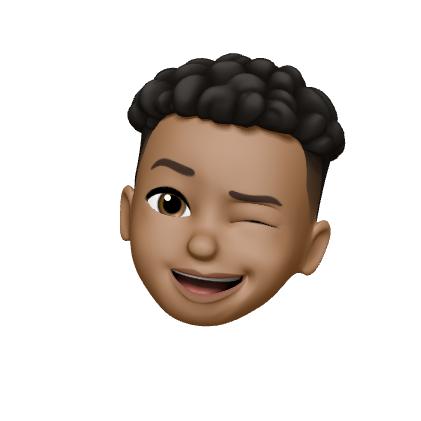
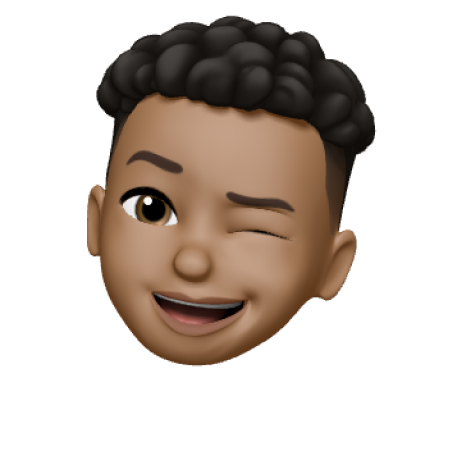
improved Worflow slides & memoji

Changed region(s): [[0.1853, 0.0309, 0.8337, 0.8029]]

diff --git a/src/components/Props/WorkFlowItems.jsx b/src/components/Props/WorkFlowItems.jsx
@@ -21,34 +21,34 @@ const WorkFlowItems = (props) => {
   let BackgroundImage = '';
 
   if (props.id === 0) {
-    BackgroundImage =
-      'bg-WorkFlowClient bg-cover bg-center saturate-150 z-10 ';
+    BackgroundImage = 'bg-WorkFlowClient bg-cover bg-center saturate-150 z-10 ';
   } else if (props.id === 1) {
-    BackgroundImage =
-      'bg-WorkFlowWireFrame bg-cover bg-center saturate-200';
+    BackgroundImage = 'bg-WorkFlowWireFrame bg-cover bg-center saturate-200';
   } else if (props.id === 2) {
-    BackgroundImage =
-      'bg-Design bg-cover bg-center saturate-200';
+    BackgroundImage = 'bg-Design bg-cover bg-center saturate-200';
   } else if (props.id === 3) {
-    BackgroundImage =
-      'bg-WorkFlowDevelopment bg-cover bg-center saturate-200';
+    BackgroundImage = 'bg-WorkFlowDevelopment bg-cover bg-center saturate-200';
   } else {
-    BackgroundImage =
-      'bg-WorkFlowHandOff bg-cover bg-center saturate-200';
+    BackgroundImage = 'bg-WorkFlowHandOff bg-cover bg-center saturate-200';
   }
 
   return (
-    <div className=''>
+    <div className='flex flex-col md:flex-row md:pb-4'>
+       <p className='pr-4 pb-2 md:pb-0 text-xl text-gray-200 font-bold'>
+          {props.num}
+        </p>
       <div className='js-show-on-scroll flex md:h-40'>
-        <div className='flex grow'>
-          <div className='flex grow'>
-            <div className={`group w-full  ${BackgroundImage}`}>
-              <div className='group flex justify-center items-center h-full text-white '>
-                {props.icon}
-              </div>
+        <div className='flex'>
+          <div className='flex'>
+          {/* flex justify-center items-center h-full text-white  */}
+            <div
+              id='workFlowIcon'
+              className={` flex justify-center items-center h-full text-white transition-all duration-700 ease-out w-full box-content w-32 ${BackgroundImage}`}
+            >
+              {props.icon}
             </div>
           </div>
-          <div className='w-[46rem] pl-4 text-white flex justify-start items-center z-10 '>
+          <div className=' w-[46rem] pl-4 text-white flex justify-start items-center z-10 '>
             Hello This is some random dummny text. Why don't you go to Africa
             for lunch and paris for dinner? Strange huh
           </div>

diff --git a/src/components/Workflow.jsx b/src/components/Workflow.jsx
@@ -4,21 +4,14 @@ import WorkFlowItems from './Props/WorkFlowItems';
 import WorkflowData from './Data/WorkFlowData';
 
 const Workflow = () => {
-  const callback = function (entries) {     
-    console.log("TRIGGERED")
+  const callback = function (entries) {
     entries.forEach((entry, index) => {
-      console.log("i = " , index)
-      let el = document.getElementById('test-' + index)
-
       if (entry.isIntersecting) {
-        entry.target.classList.add('expand');  
-              
-        // el.className += ' w-32 bg-red-500 h-full transition duration-700 ease-out'    
-        // console.log("TRUE --> " , index)
+        entry.target.classList.add('expand');
+        // document.getElementById('workFlowIcon').className = 'shownIcon';
       } else {
         entry.target.classList.remove('expand');
-        // el.className += ' w-32 bg-yellow-500 h-full transition duration-700 ease-out'    
-        // console.log("FALSE --> " , index)
+        // document.getElementById('workFlowIcon').className = 'hidden-icon';
       }
     });
   };
@@ -74,3 +67,8 @@ const Workflow = () => {
 export default Workflow;
 
 // hover:flex-auto
+
+// let el = document.getElementById('test-' + index)
+
+// el.className += ' w-32 bg-red-500 h-full transition duration-700 ease-out'
+// console.log("TRUE --> " , index)

diff --git a/src/components/AboutsUs.jsx b/src/components/AboutsUs.jsx
@@ -23,7 +23,7 @@ function AboutsUs() {
       <div className='bg-black radiantBG pt-40 md:pt-40 w-full bodyContent '>
         <Container>
           <div className='sm:flex sm:justify-evenly items-center px-4'>
-            <div className='box-content sm:w-96'>
+            <div className='box-content sm:w-[38rem]'>
               <div className='font-semibold text-white text-center sm:text-left text-3xl'>
                 I&apos;m An Autodicated Web Developer
               </div>
@@ -51,8 +51,8 @@ function AboutsUs() {
             </div>
             <div>
               <img
-                className='mt-20 object-scale-down w-full sm:w-[28rem]'
-                src={require('../Images/profilePicture.png')}
+                className='mt-20 object-scale-down w-full sm:w-[26rem] '
+                src={require('../Images/Memoji.png')}
               />
             </div>
           </div>

diff --git a/src/components/Styles/WorkFlow.css b/src/components/Styles/WorkFlow.css
@@ -18,12 +18,15 @@
 
 .expand {
   background-color: black;
-  transition: all 700ms ease-in;
+  transition: all 700ms ease-out;
   border-style: solid;
   border-width: thin;
   border-color: #1f2937;
   width: 100%;
-  animation: expand-animateThis 700ms ease-in;
+  padding: 4px;
+  border-radius: 4px;
+  /* margin: 4px; */
+  animation: expand-animateThis 700ms ease-out;
   
   /* animation: expand-animate 700ms ease-in */
 }
@@ -40,3 +43,36 @@
 }
 
 
+.icon-expand {
+  width: 100%;
+  animation: icon-expandThis 700ms ease-out
+}
+
+@keyframes icon-expanThis {
+  0% {
+    width: 0%;
+
+  
+  }
+  100% {
+    width: 100%;
+  }
+}
+
+.shownIcon {
+  transition: all 700ms ease-out;
+  color: white;
+  width: 100%;
+  animation: showIcon-expandThis 700ms ease-out
+}
+
+@keyframes showIcon-expanThis {
+  0% {
+    width: 0%;
+
+  
+  }
+  100% {
+    width: 100%;
+  }
+}
